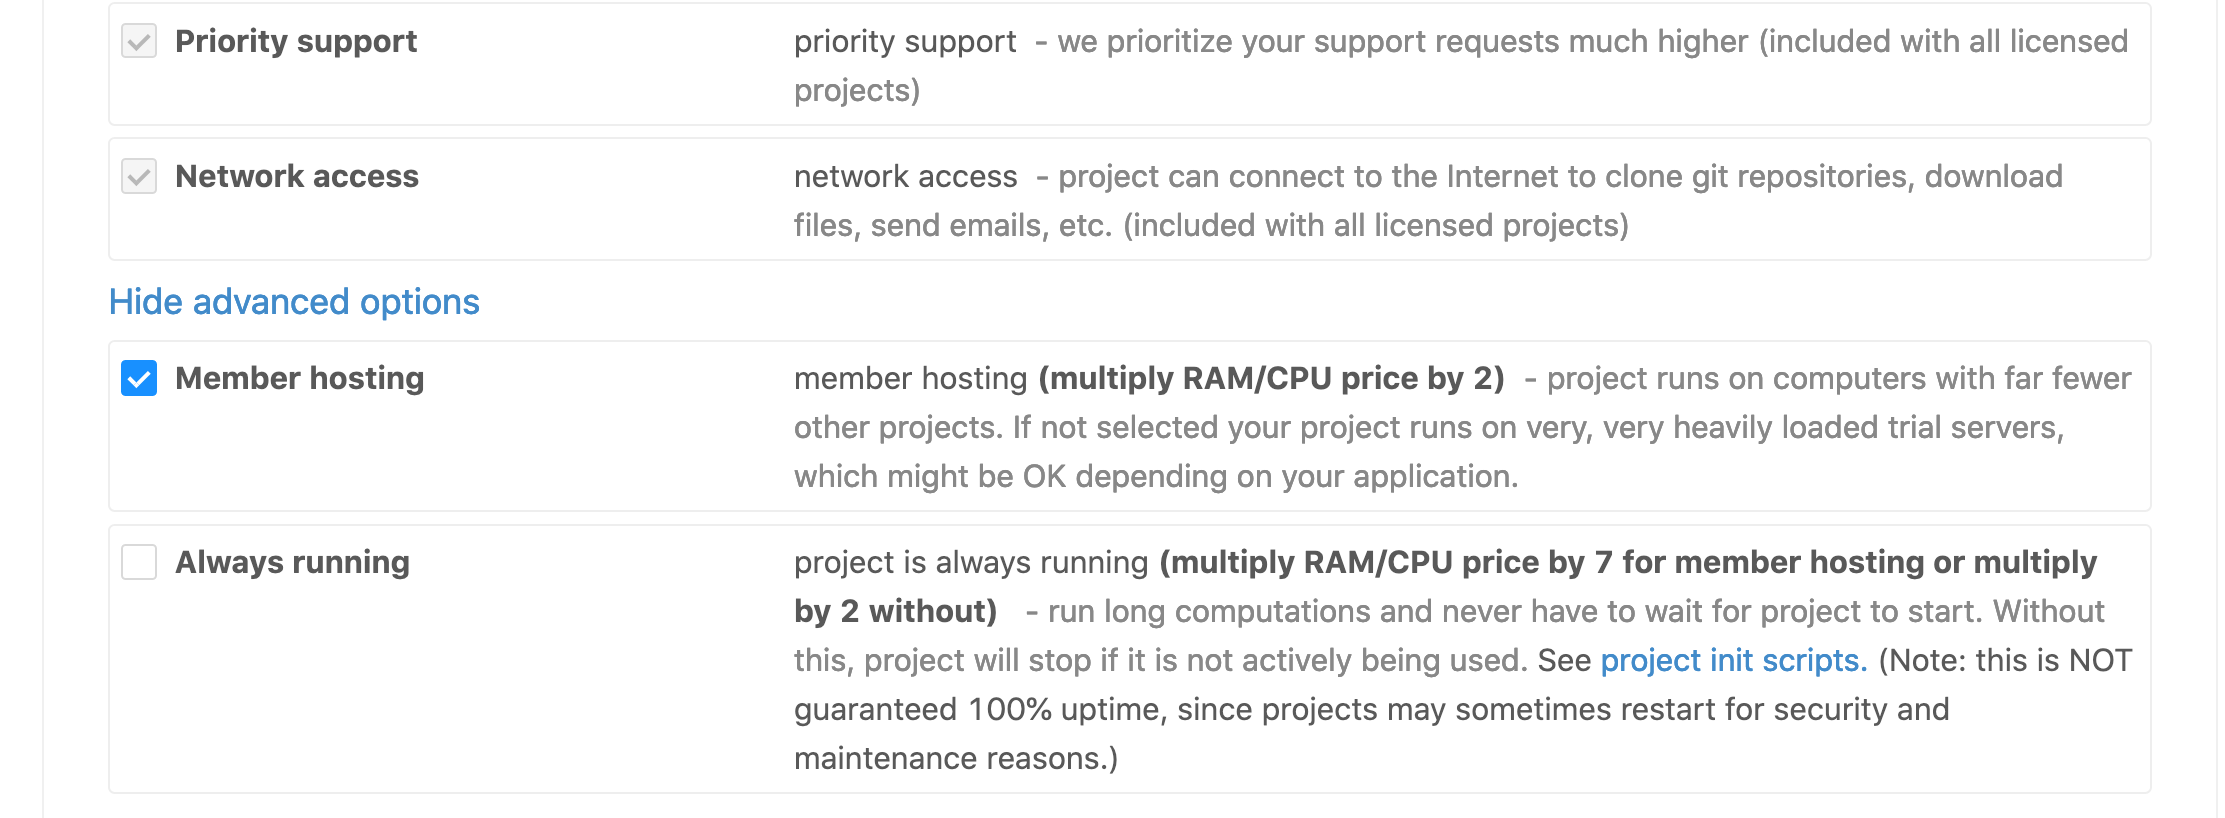
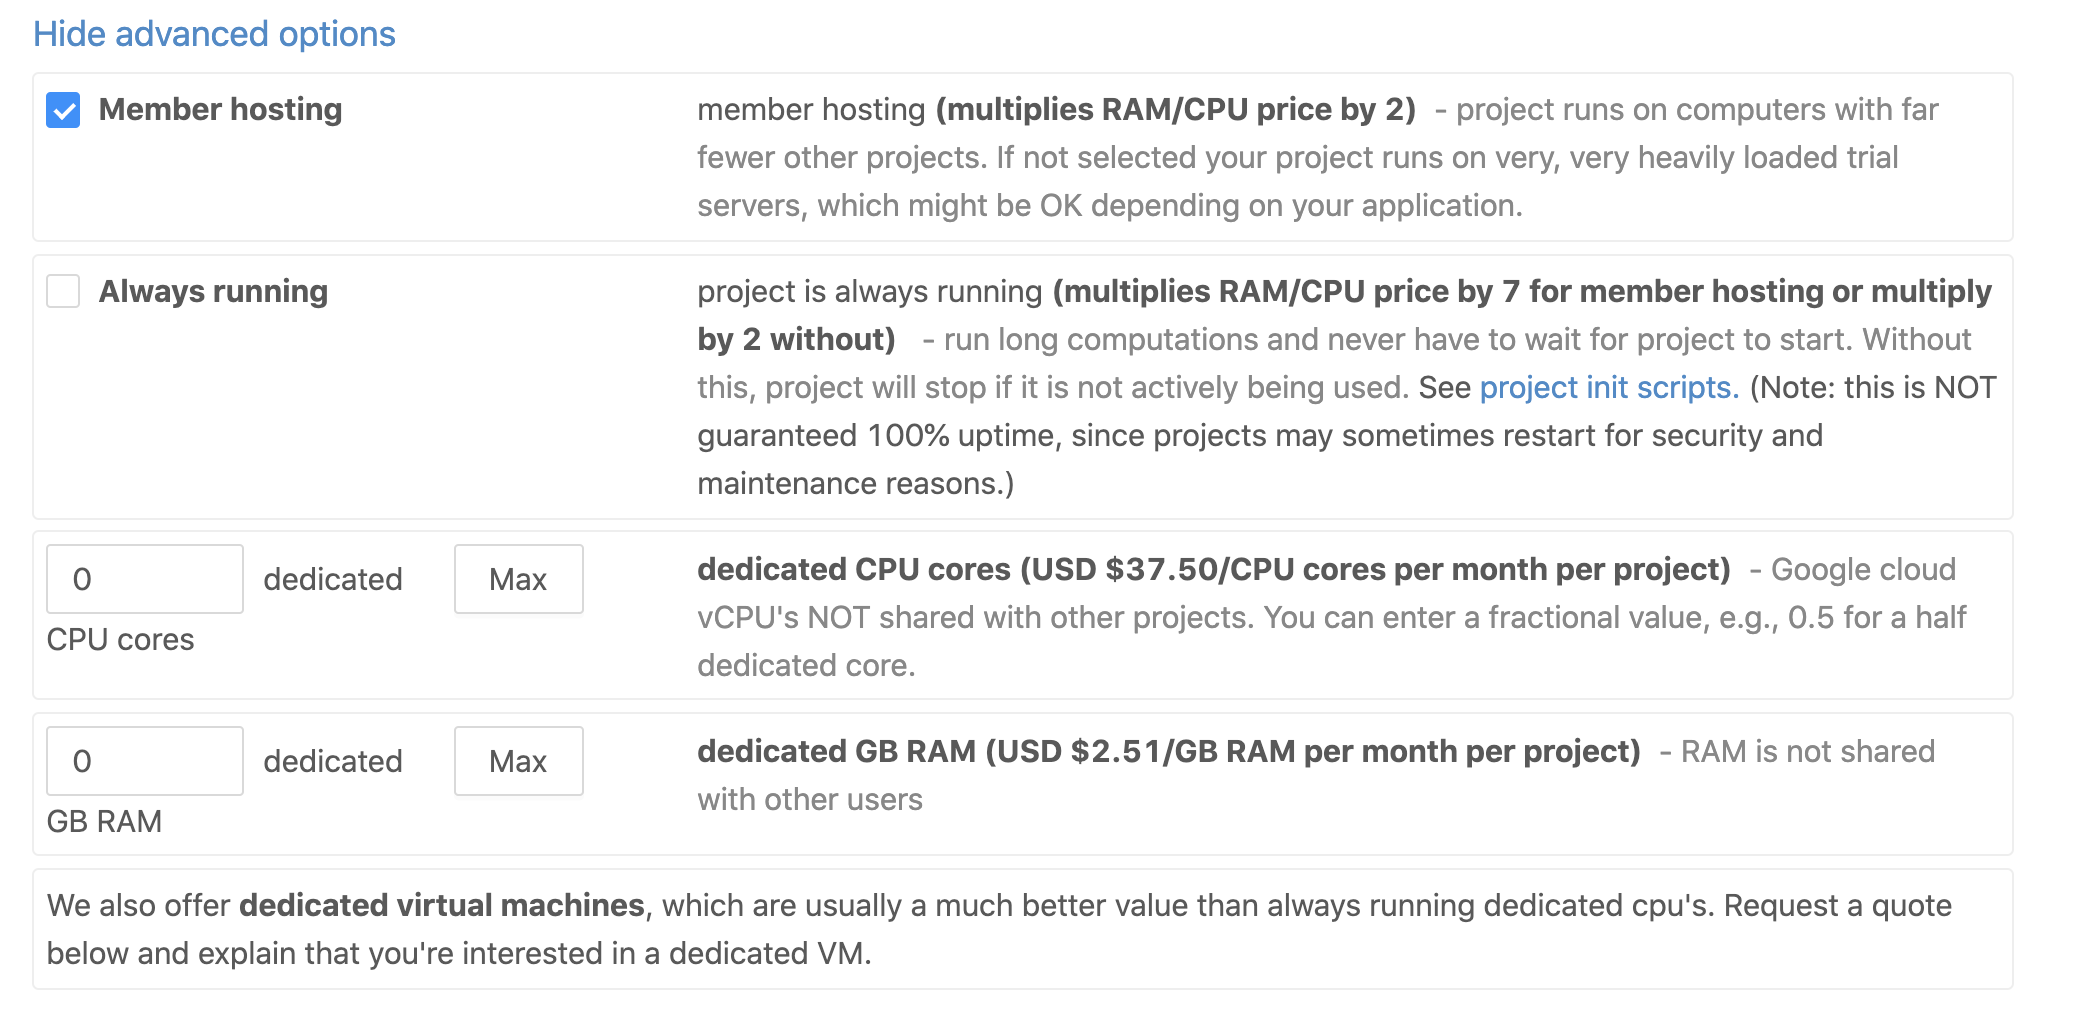
license for dedicated CPU, RAM

diff --git a/source/account/licenses.rst b/source/account/licenses.rst
@@ -61,7 +61,7 @@ If you're not sure which upgrades to order, here are some suggestions:
 Advanced options
 ---------------------------------
 
-If you click "Show advanced options", two more choices appear.
+If you click "Show advanced options", more choices appear.
 
 **Member hosting** is the most essential upgrade for most situations. It gets your projects off heavily-loaded, preemptible trial servers. For that reason, this option is enabled by default.
 
@@ -74,6 +74,10 @@ The **Always running** option prevents your project from being stopped for an :r
      :align: center
 
      ..
+
+**Dedicated CPU cores** are cloud vCPU's not shared with other projects. You can enter a fractional value, such as 0.5 for half a dedicated core.
+
+**Dedicated RAM** is not shared with other projects.
 
 .. index:: Licenses; period, title, cost, purchase
 
